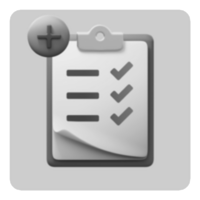
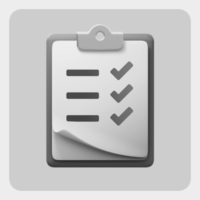
fix: Ho sistemato i costruttori delle classi "Personale", "Tartaruga" e "CartellaClinica" e ho sostituito l'icona "Cartella clinica" della classe "PortaleView"

diff --git a/Classi/Models/CartellaClinica.java b/Classi/Models/CartellaClinica.java
@@ -19,43 +19,43 @@ public class CartellaClinica {
 	private String statoCoda;
 	private String statoPinne;
 	
-	public CartellaClinica(int idPersonale, int idTartaruga, String identificativoInterno, String dataRitrovamento, String luogoRitrovamento, String specie, int larghezza, int lunghezza, int peso, String statoNaso, String statoBecco, String statoTesta, String statoCollo, String statoOcchi, String statoCoda, String statoPinne) {
-		setIdPersonale(idPersonale);
-		setIdTartaruga(idTartaruga);
-		setIdentificativoInterno(identificativoInterno);
-		setDataRitrovamento(dataRitrovamento);
-		setLuogoRitrovamento(luogoRitrovamento);
-		setSpecie(specie);
-		setLarghezza(larghezza);
-		setLunghezza(lunghezza);
-		setPeso(peso);
-		setStatoNaso(statoNaso);
-		setStatoBecco(statoBecco);
-		setStatoTesta(statoTesta);
-		setStatoCollo(statoCollo);
-		setStatoOcchi(statoOcchi);
-		setStatoCoda(statoCoda);
-		setStatoPinne(statoPinne);
+	public CartellaClinica(int idCartellaClinica, int idPersonale, int idTartaruga, String identificativoInterno, String dataRitrovamento, String luogoRitrovamento, String specie, int larghezza, int lunghezza, int peso, String statoNaso, String statoBecco, String statoTesta, String statoCollo, String statoOcchi, String statoCoda, String statoPinne) {
+		this.idCartellaClinica = idCartellaClinica;
+		this.idPersonale = idPersonale;
+		this.idTartaruga = idTartaruga;
+		this.identificativoInterno = identificativoInterno;
+		this.dataRitrovamento = dataRitrovamento;
+		this.luogoRitrovamento = luogoRitrovamento;
+		this.specie = specie;
+		this.larghezza = larghezza;
+		this.lunghezza = lunghezza;
+		this.peso = peso;
+		this.statoNaso = statoNaso;
+		this.statoBecco = statoBecco;
+		this.statoTesta = statoTesta;
+		this.statoCollo = statoCollo;
+		this.statoOcchi = statoOcchi;
+		this.statoCoda = statoCoda;
+		this.statoPinne = statoPinne;
 	}
 	
-	public CartellaClinica(int idCartellaClinica, int idPersonale, int idTartaruga, String identificativoInterno, String dataRitrovamento, String luogoRitrovamento, String specie, int larghezza, int lunghezza, int peso, String statoNaso, String statoBecco, String statoTesta, String statoCollo, String statoOcchi, String statoCoda, String statoPinne) {
-		setIdCartellaClinica(idCartellaClinica);
-		setIdPersonale(idPersonale);
-		setIdTartaruga(idTartaruga);
-		setIdentificativoInterno(identificativoInterno);
-		setDataRitrovamento(dataRitrovamento);
-		setLuogoRitrovamento(luogoRitrovamento);
-		setSpecie(specie);
-		setLarghezza(larghezza);
-		setLunghezza(lunghezza);
-		setPeso(peso);
-		setStatoNaso(statoNaso);
-		setStatoBecco(statoBecco);
-		setStatoTesta(statoTesta);
-		setStatoCollo(statoCollo);
-		setStatoOcchi(statoOcchi);
-		setStatoCoda(statoCoda);
-		setStatoPinne(statoPinne);
+	public CartellaClinica(int idPersonale, int idTartaruga, String identificativoInterno, String specie, String dataRitrovamento, String luogoRitrovamento, int larghezza, int lunghezza, int peso, String statoPinne, String statoCoda, String statoCollo, String statoTesta, String statoBecco, String statoNaso, String statoOcchi) {
+		this.idPersonale = idPersonale;
+		this.idTartaruga = idTartaruga;
+		this.identificativoInterno = identificativoInterno;
+		this.specie = specie;
+		this.dataRitrovamento = dataRitrovamento;
+		this.luogoRitrovamento = luogoRitrovamento;
+		this.larghezza = larghezza;
+		this.lunghezza = lunghezza;
+		this.peso = peso;
+		this.statoPinne = statoPinne;
+		this.statoCoda = statoCoda;
+		this.statoCollo = statoCollo;
+		this.statoTesta = statoTesta;
+		this.statoBecco = statoBecco;
+		this.statoNaso = statoNaso;
+		this.statoOcchi = statoOcchi;
 	}
 	
 	public int getIdCartellaClinica() {

diff --git a/Classi/Database/CartellaClinicaDatabase.java b/Classi/Database/CartellaClinicaDatabase.java
@@ -98,21 +98,21 @@ public class CartellaClinicaDatabase {
     }
 	
 	//Funzione che produce in maniera randomica un identificativo con formato IXXXXXXXX, dove X è una cifra corrispondente ad un numero compreso tra 0 e 9
-	public String generatoreDiIdentificativoClinico() throws SQLException {
+	public String generatoreDiIdentificativiInterni() throws SQLException {
 		Random rnd = new Random();
-	    String identificativoClinico = "I";
+	    String identificativoInterno = "I";
 	    
 	    for(int i = 0; i < 8; i++) {
-	    	identificativoClinico += rnd.nextInt(10);
+	    	identificativoInterno += rnd.nextInt(10);
 	    }
 	    
-	    CartellaClinica cartellaClinica = getCartellaClinicaByIdentificativo(identificativoClinico);
+	    CartellaClinica cartellaClinica = getCartellaClinicaByIdentificativo(identificativoInterno);
 	    
 	    if(cartellaClinica == null) {
-	    	return identificativoClinico;
+	    	return identificativoInterno;
 	    } else {
-	    	identificativoClinico = generatoreDiIdentificativoClinico();
-	    	return identificativoClinico;
+	    	identificativoInterno = generatoreDiIdentificativiInterni();
+	    	return identificativoInterno;
 	    }
 	}
 }

diff --git a/Classi/Models/Personale.java b/Classi/Models/Personale.java
@@ -13,16 +13,16 @@ public class Personale {
     private String tipologia;
     
     private Personale(int idPersonale, int idCentro, String matricola, String email, String password, String nome, String cognome, String sesso, String dataDiNascita, String tipologia) {
-    	setIdPersonale(idPersonale);
-    	setIdCentro(idCentro);
-    	setMatricola(matricola);
-    	setEmail(email);
-    	setPassword(password);
-    	setNome(nome);
-    	setCognome(cognome);
-    	setSesso(sesso);
-    	setDataDiNascita(dataDiNascita);
-    	setTipologia(tipologia);
+    	this.idPersonale = idPersonale;
+    	this.idCentro = idCentro;
+    	this.matricola = matricola;
+    	this.email = email;
+    	this.password = password;
+    	this.nome = nome;
+    	this.cognome = cognome;
+    	this.sesso = sesso;
+    	this.dataDiNascita = dataDiNascita;
+    	this.tipologia = tipologia;
     }
     
     public Personale(int idCentro, String email, String password, String nome, String cognome, String sesso, String dataDiNascita, String tipologia) {

diff --git a/Classi/View/TartarugheView.java b/Classi/View/TartarugheView.java
@@ -253,7 +253,7 @@ public class TartarugheView extends JFrame {
 		testoCartellaClinica.setForeground(new Color(0, 0, 0));
 		testoCartellaClinica.setFont(new Font("Segoe UI", Font.BOLD, 25));
 		testoCartellaClinica.setBackground(new Color(255, 255, 255));
-		testoCartellaClinica.setBounds(40, 420, 170, 40);
+		testoCartellaClinica.setBounds(40, 420, 180, 40);
 		pannelloCentrale.add(testoCartellaClinica);
 		
 		compilazioneTarghetta = new JTextField();

diff --git a/Classi/View/PortaleView.java b/Classi/View/PortaleView.java
@@ -163,7 +163,7 @@ public class PortaleView extends JFrame {
 		testoInformativo3.setForeground(new Color(0, 0, 0));
 		testoInformativo3.setFont(new Font("Segoe UI", Font.ITALIC, 15));
 		testoInformativo3.setBackground(new Color(255, 255, 255));
-		testoInformativo3.setBounds(160, 170, 630, 30);
+		testoInformativo3.setBounds(160, 170, 650, 30);
 		pannelloCentrale.add(testoInformativo3);
 		
 		JLabel testoDati = new JLabel("Dati personali");

diff --git a/Classi/Models/Tartaruga.java b/Classi/Models/Tartaruga.java
@@ -8,11 +8,11 @@ public class Tartaruga {
 	private int eta;
 	
 	public Tartaruga(int idTartaruga, String targhetta, String nome, String sesso, int eta) {
-		setIdTartaruga(idTartaruga);
-		setTarghetta(targhetta);
-		setNome(nome);
-		setSesso(sesso);
-		setEta(eta);
+		this.idTartaruga = idTartaruga;
+		this.targhetta = targhetta;
+		this.nome = nome;
+		this.sesso = sesso;
+		this.eta = eta;
 	}
 	
 	public int getIdTartaruga() {
